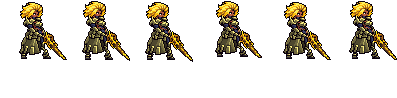
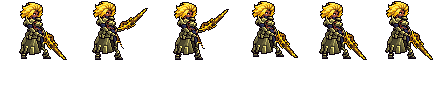
Rell: Magnet Storm on foot raises the lance, as League's
League's Biped_Spell4_Cast lifts the lance over her head and drives it down. rig_rell.py: on the hop frames of f_ult
the whole lance (B_LANCE_WHOLE: the band along its slant, not the strip down the skirt's edge) is turned a quarter
counter-clockwise about her grip - raised up and forward - and the next stamp has it down again. Only frames 2-3 of
f_ult change; every other tag is pixel-identical. The user approved the preview.

Changed region(s): [[0.1814, 0.0, 0.8463, 0.6122], [0.8766, 0.0, 1.0, 0.6122], [0.0302, 0.0, 0.1814, 0.6122]]

diff --git a/tools/art/rig_rell.py b/tools/art/rig_rell.py
@@ -303,12 +303,26 @@ def bleg(dst, name, ox, oy, fdx=0, lift=0):
 B_WAIST = 30                                          # the upper body (a slump bows it over the hips) above this row
 
 
-def dismounted(dst=None, dx=0, sink=0, lift=0, nf=(0, 0), ff=(0, 0), bow=(0, 0)):
+def dismounted(dst=None, dx=0, sink=0, lift=0, nf=(0, 0), ff=(0, 0), bow=(0, 0), lance_up=False):
     """B on the PPU canvas: the body dx forward, `sink` rows down over the legs, all `lift` rows up; the near / far
-    boot moved fdx with its lift: nf / ff = (fdx, lift); bow: the upper body moved (dx, dy) over the hips."""
+    boot moved fdx with its lift: nf / ff = (fdx, lift); bow: the upper body moved (dx, dy) over the hips; lance_up:
+    the lance turned a quarter counter-clockwise about its grip (raised up and forward over her head)."""
     dst = blank() if dst is None else dst
     bleg(dst, "f", BX0 + dx, BY0 - lift, ff[0], ff[1])
     bleg(dst, "n", BX0 + dx, BY0 - lift, nf[0], nf[1])
+    if lance_up:
+        # the whole lance: everything of B from row 27 down and column 25 on but her boots, with B_LANCE (its warm
+        # squares alone left the shaft's dark shading behind as a loose stick and turned a dotted line)
+        lm = B_LANCE_WHOLE
+        put(dst, B0, B_BODY & ~lm, BX0 + dx, BY0 + sink - lift)
+        ys, xs = np.nonzero(lm)
+        sub = np.zeros((ys.max() - ys.min() + 1, xs.max() - xs.min() + 1, 4), np.uint8)
+        sub[ys - ys.min(), xs - xs.min()] = B0[ys, xs]
+        t = np.rot90(sub, 1).copy()                     # the grip (the box's top-left) to the bottom-left
+        gx, gy = BX0 + dx + xs.min(), BY0 + sink - lift + ys.min()
+        put(dst, t, t[..., 3] > 0, gx, gy - t.shape[0] + 1)
+        dst[GY:] = 0
+        return dst
     if bow == (0, 0):
         put(dst, B0, B_BODY, BX0 + dx, BY0 + sink - lift)
     else:
@@ -388,6 +402,10 @@ def b_lance():
 
 
 B_LANCE = b_lance()
+_rr, _cc = np.mgrid[0:BH, 0:BW]
+# f_ult's raised lance: the band along the lance's slant (it runs from her grip at row 28, column 22 down to the right,
+# ~0.8 columns a row) - the narrow upright strip down the skirt's edge stays with her (turned, it stuck out sideways)
+B_LANCE_WHOLE = B_OP & (_rr >= 27) & (_cc >= 25) & (_cc - 22 >= (_rr - 28) * 0.45) & ~B_FOOT_N & ~B_FOOT_F
 
 
 def lie(piece, chin):
@@ -500,8 +518,10 @@ def frames():
     out["f_hit"] = [(dismounted(dx=-3), 90), (dismounted(dx=-1), 120)]
     # Magnet Storm on foot (League's Biped_Spell4_Cast; the add-on plays f_ult while she is dismounted - the mounted
     # ult brought the horse back for half a second): the stamp, a hop, the second stamp, held, back
-    out["f_ult"] = [(dismounted(dx=1, sink=2, nf=(-1, 0), ff=(1, 0)), 80), (dismounted(dx=-1, lift=3), 90),
-                    (dismounted(dx=-1, lift=4, nf=(-1, 1), ff=(-1, 1)), 70),
+    # (2026-10-19, after League's Biped_Spell4_Cast: the lance raised over her head on the hop - turned a quarter about
+    # her grip - and driven down on the second stamp)
+    out["f_ult"] = [(dismounted(dx=1, sink=2, nf=(-1, 0), ff=(1, 0)), 80), (dismounted(dx=-1, lift=3, lance_up=True), 90),
+                    (dismounted(dx=-1, lift=4, nf=(-1, 1), ff=(-1, 1), lance_up=True), 70),
                     (dismounted(dx=2, sink=3, nf=(-1, 0), ff=(2, 0)), 90), (dismounted(dx=1, sink=2, ff=(1, 0)), 90),
                     (dismounted(sink=1), 80)]
     # she sinks to her knees in the armour (its skirt to the ground) and slumps forward over her hips
